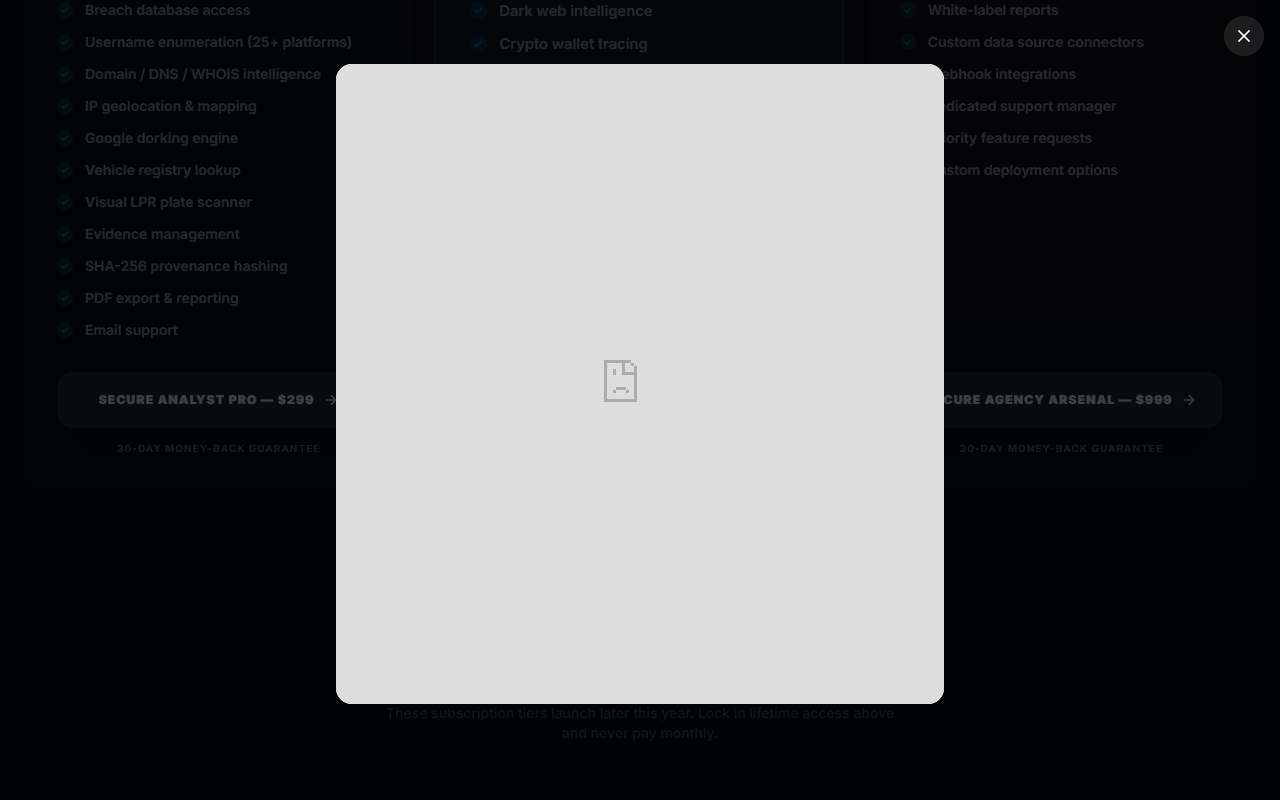
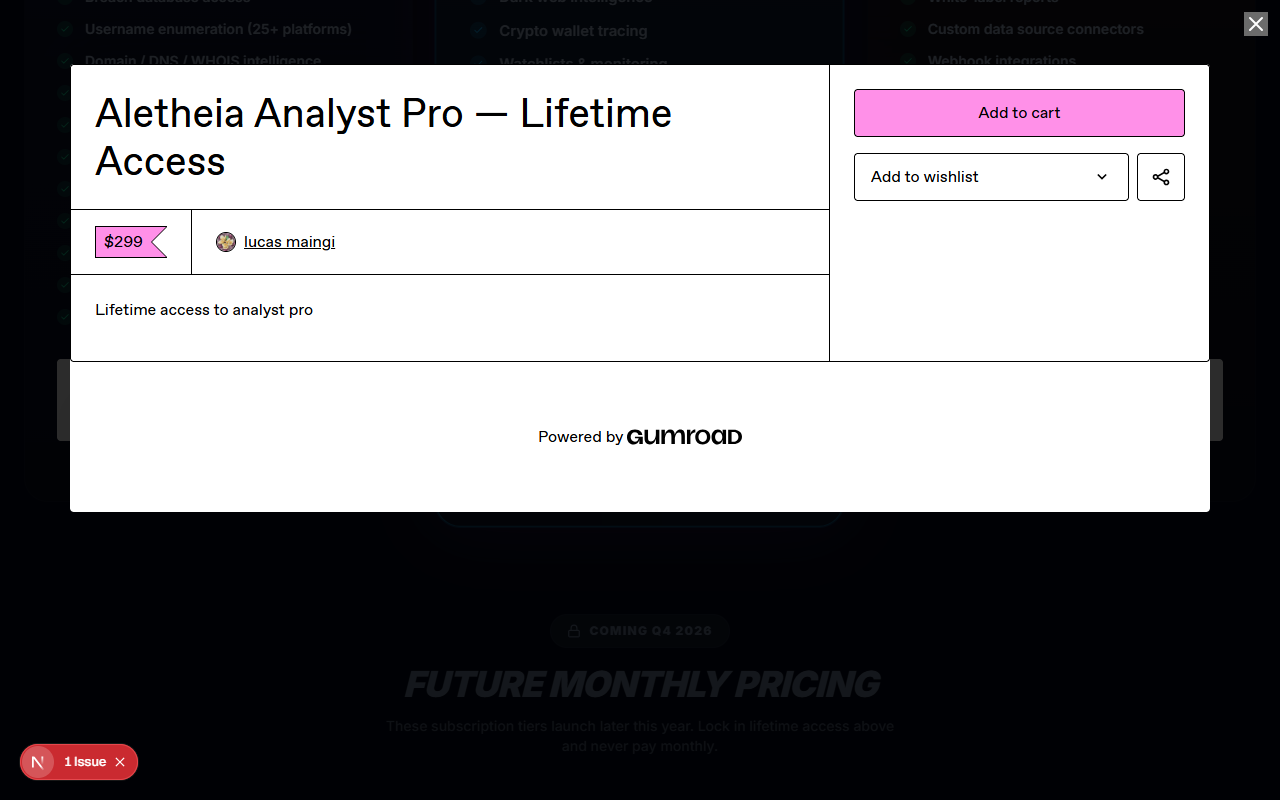
fix: update Content Security Policy to allow Gumroad script, iframe, stylesheets, and fonts

diff --git a/test-overlay-e2e.js b/test-overlay-e2e.js
@@ -10,6 +10,10 @@ const puppeteer = require('puppeteer');
   const page = await browser.newPage();
   await page.setViewport({ width: 1280, height: 800 });
   
+  // Capture page logs
+  page.on('console', msg => console.log(`   [PAGE LOG] ${msg.text()}`));
+  page.on('pageerror', err => console.log(`   [PAGE ERROR] ${err.toString()}`));
+  
   // Track navigations
   let navigatedToGumroad = false;
   page.on('framenavigated', (frame) => {

diff --git a/next.config.ts b/next.config.ts
@@ -10,7 +10,7 @@ const nextConfig: NextConfig = {
         headers: [
           {
             key: "Content-Security-Policy",
-            value: "default-src 'self'; script-src 'self' 'unsafe-inline' 'unsafe-eval'; frame-src 'self'; connect-src 'self' https://ojdqtdkrwadjuznfqswk.supabase.co; img-src 'self' data: https://*.supabase.co; style-src 'self' 'unsafe-inline' https://fonts.googleapis.com; font-src 'self' https://fonts.gstatic.com;",
+            value: "default-src 'self'; script-src 'self' 'unsafe-inline' 'unsafe-eval' https://gumroad.com https://*.gumroad.com https://va.vercel-scripts.com; frame-src 'self' https://gumroad.com https://*.gumroad.com https://gum.co https://*.gum.co; connect-src 'self' https://ojdqtdkrwadjuznfqswk.supabase.co https://gumroad.com https://*.gumroad.com; img-src 'self' data: https://*.supabase.co https://gumroad.com https://*.gumroad.com; style-src 'self' 'unsafe-inline' https://fonts.googleapis.com https://assets.gumroad.com https://*.gumroad.com; font-src 'self' https://fonts.gstatic.com https://assets.gumroad.com https://*.gumroad.com;",
           },
           {
             key: "X-Frame-Options",